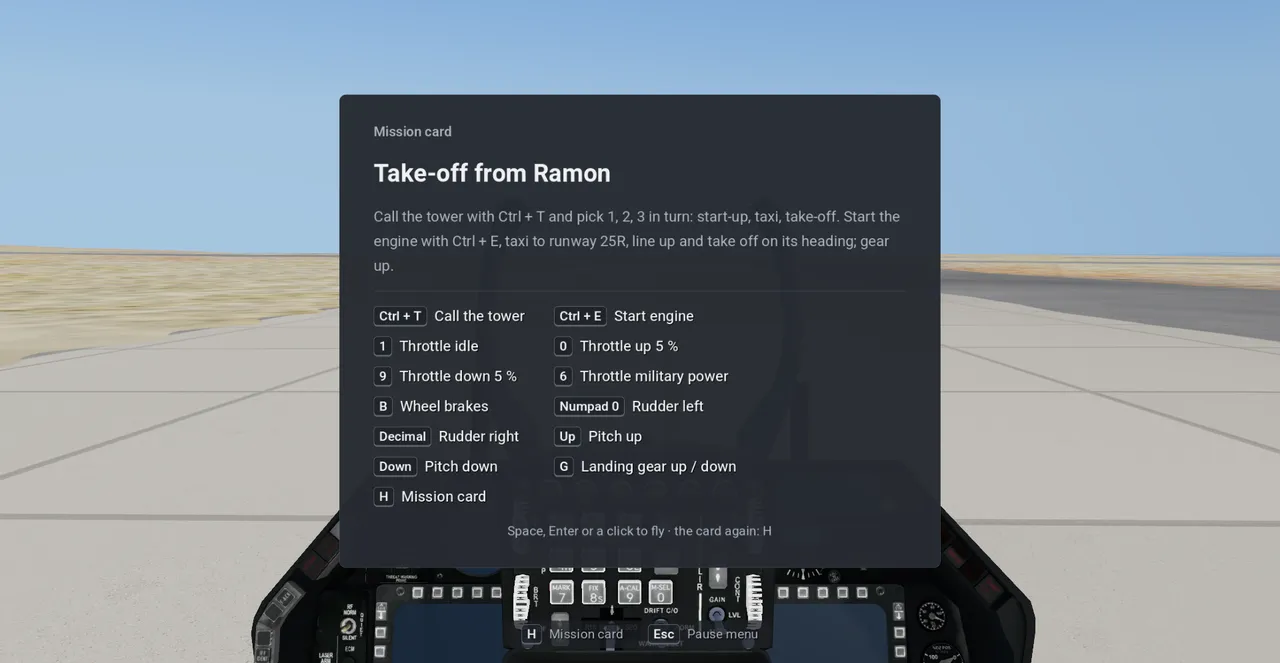
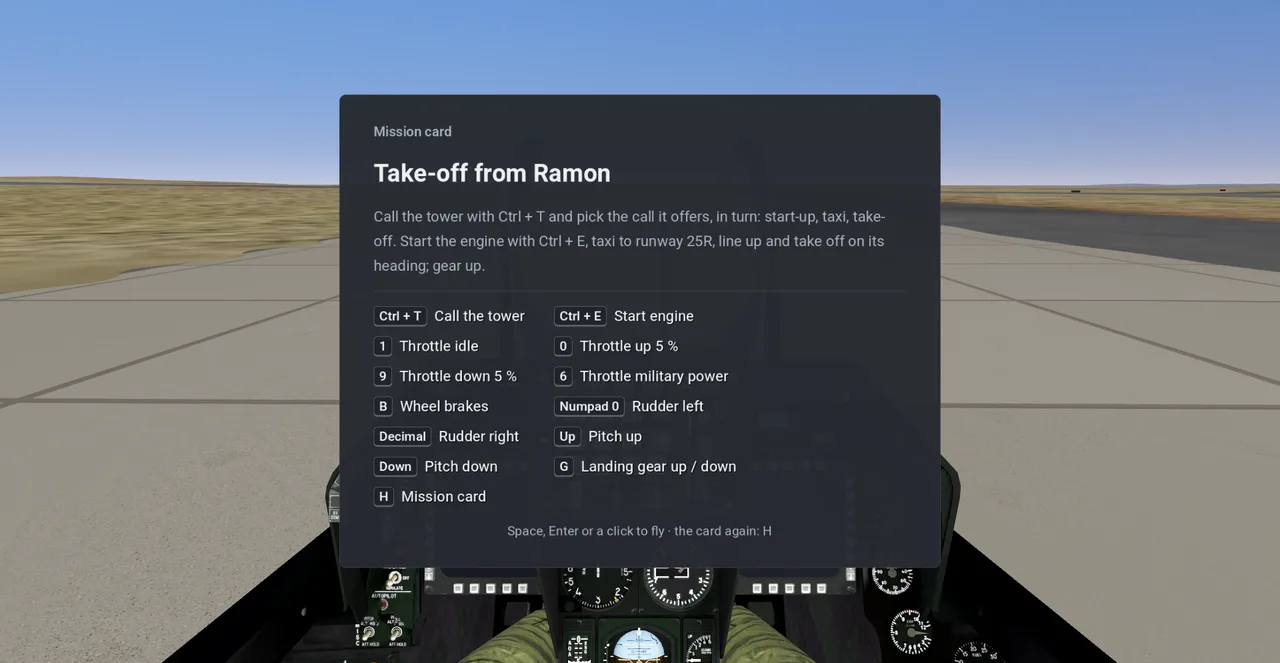
Modern IAF: the in-flight key hint shows briefly, never under a card; no Godot splash
The user: the "H Mission card · Esc Pause menu" strip should not stay on, especially with the
narrative in the side box. The strip (flight_ui.gd) now shows for the first 8 s of a flight, for
4 s after a language change and for 4 s after the mission card closes (so the player learns the
key that opens it again), then fades out over 0.5 s. It is hidden while the mission card or the
start-up checklist card is open. The pause menu's own hints are untouched.

test_flight_ui checks it: shown at the start, hidden while the card is open, shown after the
card closes, faded out after. _flight_ui_shot.gd adds a picture 10 s into the flight;
front-end.md §8 describes the strip, with the card and 10 s pictures (no strip).

The user: "remove the Godot flash". iaf-2026/project.godot turns the boot splash image off on
the front end's background colour (#1d2025), so the window opens plain until Home draws
(front-end.md). The original game's project is untouched.

diff --git a/iaf-2026/docs/front-end.md b/iaf-2026/docs/front-end.md
@@ -13,6 +13,8 @@ Heebo font and the Israeli Air Force flag's colours.
 ./modern-iaf -- --mission 2011   # flies that mission at once, then shows its debrief
 ```
 
+The window opens plain in the front end's background colour (#1d2025, no Godot splash image) until Home draws.
+
 ## 1. The screens
 
 | screen | what it does | English | Hebrew |
@@ -222,15 +224,19 @@ stay the original's (`terrain_view.gd _on_subtitle` hands each line to the fligh
   the newest at the bottom, three at most, each for 8 s, wholly in the game's language ([training.md](training.md)
   §8).
 - **The panel** at the inline-start top holds the radio menu (Ctrl+T) and the training result.
-- **The key hint** at the bottom: the Mission card key and Esc's pause menu.
+- **The key hint** at the bottom: the Mission card key and Esc's pause menu. It shows for the first 8 s of a flight,
+  for 4 s after a language change and for 4 s after the mission card closes (so the player learns the key that opens
+  it again), then fades out. It is hidden while the mission card or the start-up checklist card is open (the user,
+  2026-11-10: the hint stays out of the way of the narrative). The pause menu's own key hints are separate.
 
 A language switched over the flight (Esc → Preferences → Language) applies at once to the key hint, the panel and
 the start-up checklist card ([training.md](training.md) §7.1); a radio line already shown stays in its language.
 
 | | English | Hebrew |
 |---|---|---|
-| the take-off's card | ![The mission card of Take-off from Ramon](pictures/front-end/card_en.webp) | ![The mission card in Hebrew](pictures/front-end/card_he.webp) |
-| the strip and the hint, after a tower call | ![A tower call in the band](pictures/front-end/band_en.webp) | ![A tower call in Hebrew](pictures/front-end/band_he.webp) |
+| the take-off's card (no key hint under it) | ![The mission card of Take-off from Ramon](pictures/front-end/card_en.webp) | ![The mission card in Hebrew](pictures/front-end/card_he.webp) |
+| the strip after a tower call, the key hint still showing | ![A tower call in the band](pictures/front-end/band_en.webp) | ![A tower call in Hebrew](pictures/front-end/band_he.webp) |
+| 10 s into the flight: the key hint faded out | ![The take-off 10 s in, no key hint](pictures/front-end/flight10_en.webp) | ![The take-off 10 s in, Hebrew](pictures/front-end/flight10_he.webp) |
 
 ## 9. Keys and Joystick
 
